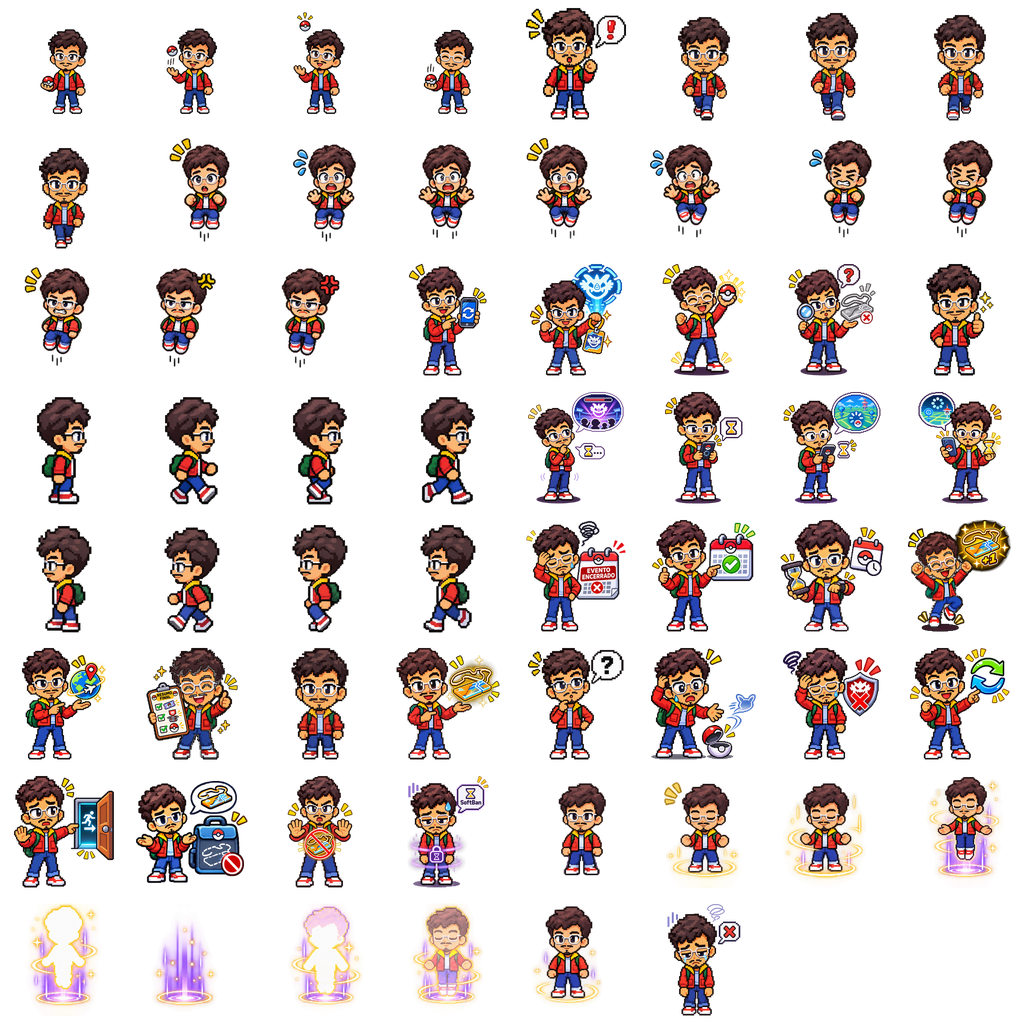
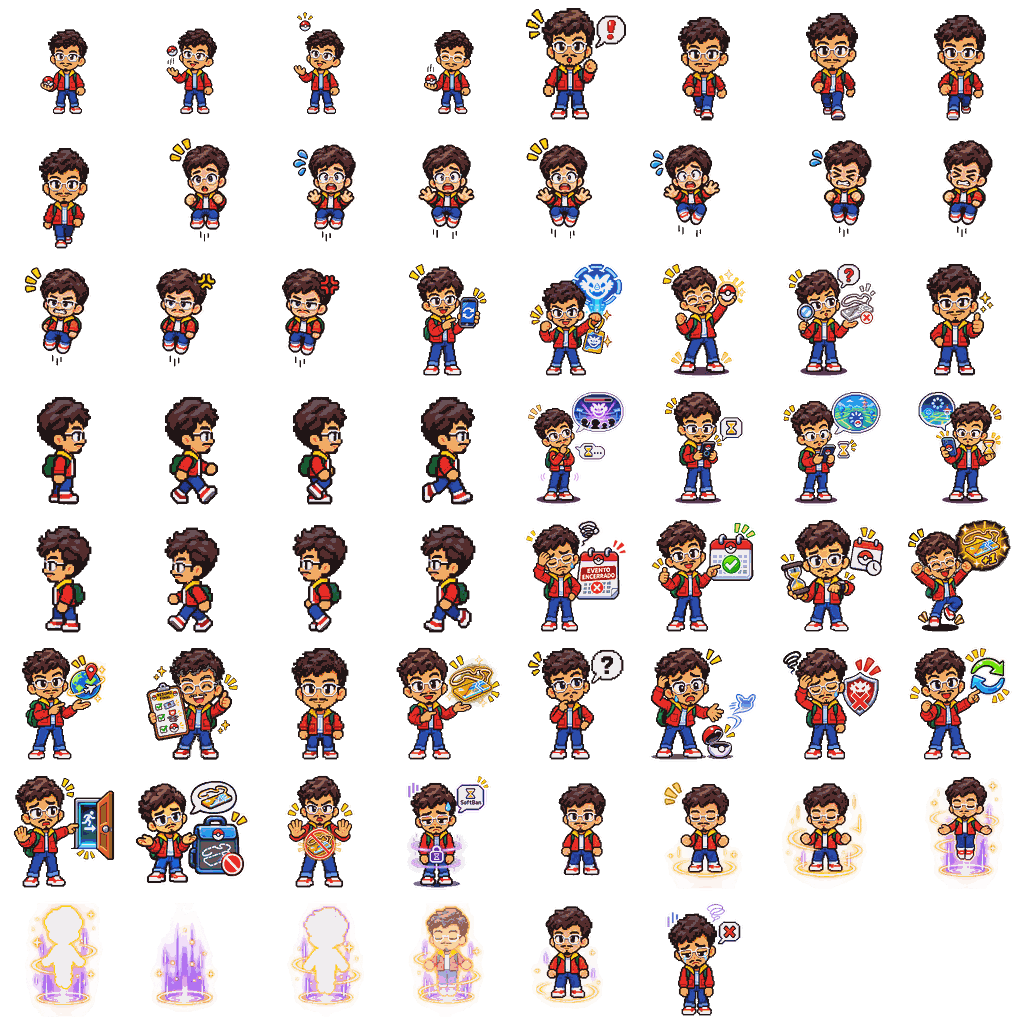
fix(LT315): compactar fallback e preservar atlas 68 íntegro sem exceder limite de APK
Compacta fallback original das 62 sprites, arquiva cópia íntegra LT309 e mantém novo atlas das 68 sem perda. Regressões Node LT169, LT211, Java LT62 e OTA LT173 aprovadas; assinatura e teto <35MB preservados.

diff --git a/app/tests/lt309-edu-sprites-62.test.js b/app/tests/lt309-edu-sprites-62.test.js
@@ -12,7 +12,13 @@ assert.equal(asset.toString("ascii",0,4),"RIFF");
 assert.equal(asset.toString("ascii",8,12),"WEBP");
 assert.ok(asset.length>100000&&asset.length<1000000,"Atlas lossless de 62 quadros compactado");
 assert.equal(crypto.createHash("sha256").update(asset).digest("hex"),
[2 lines of base64/hex data omitted]
+const archived=fs.readFileSync(path.join(__dirname,
+  "../../docs/legacy-assets/lt309/edu_avatar_atlas_62-original.webp"));
+assert.equal(archived.length,822866,"Fonte original íntegra, fora do APK");
+assert.equal(crypto.createHash("sha256").update(archived).digest("hex"),
[1 lines of base64/hex data omitted]
+assert.equal(asset.length,133078,"Fallback com 62 sprites compactado para APK abaixo de 35 MB");
 assert.match(java,/CELL=128, COLS=8, COUNT=62/);
 assert.match(java,/SIZES_PX=\{50,75,100\}/);
 assert.match(java,/options\.inScaled=false/);

diff --git a/app/tests/lt314-edu-68-geometry-shadow.test.js b/app/tests/lt314-edu-68-geometry-shadow.test.js
@@ -54,6 +54,6 @@ assert(service.includes('private static final String[] EDU_IDLE_ROTATION'),"Idle
 assert(!service.match(/EDU_IDLE_ROTATION=\{[^}]*edu_sombria/s),"Sombria não é exibida ociosamente");
 const old=fs.readFileSync(path.join(root,"assets/edu_avatar_atlas_62.webp"));
 assert.equal(crypto.createHash("sha256").update(old).digest("hex"),
[1 lines of base64/hex data omitted]
- "Atlas original das 62 sprites preservado");
[1 lines of base64/hex data omitted]
+ "Fallback LT315 das 62 sprites compacto e verificado");
 console.log("LT314 QA PASS — 68 sprites, Sombria, centro do rosto, pés e pixel-art sem interpolação");

diff --git a/app/tests/lt313-edu-consistent-idle.test.js b/app/tests/lt313-edu-consistent-idle.test.js
@@ -59,7 +59,7 @@ for(const seq of ["pokebola_gesto","caminhada_frente","caminhada_direita",
    "edu_armadura_mewtwo","edu_armadura_mewtwo_shiny"])
  assert.ok(service.includes('"'+seq+'"'),"ciclo ocioso "+seq);
 assert.match(java,/SIZES_PX=\{50,75,100\}/,"não muda P/M/G");
-assert.ok(old.length>700000,"atlas de 62 continua incluído");
+assert.ok(old.length>100000&&old.length<350000,"fallback das 62 sprites mantém nitidez e tamanho compacto");
 assert.ok(extra.length>5000,"atlas de 5 continua incluído");
 assert.match(java,/boolean uniformFrame=uniform!=null/);
 console.log("LT313: asset WebP lossless 22, proporções consistentes, mapeamento e fallback PASS");

diff --git a/docs/LT315_EDU_ATLAS_68_UNIFORME_AUDITORIA_20261108.md b/docs/LT315_EDU_ATLAS_68_UNIFORME_AUDITORIA_20261108.md
@@ -16,3 +16,11 @@ Base: LT314 (0.03.14 / 54520). O usuário informou que quadros ainda mudavam de 
 - app/tests/lt315-edu-68-uniform-atlas.test.js verifica hash, dimensões VP8L, indices, fallback, ausência de reescala e memória.
 - Requer regressões Node, compilação Java Android, OTA, assinatura v2 e integridade do APK antes de publicar.
 - QA física no Samsung pendente; não interpretar sucesso de CI como confirmação de fluidez em aparelho.
+
+## Auditoria de tamanho e preservação do fallback
+- Primeira tentativa de publicar LT315: build e assinatura concluídos, mas o gate oficial Validate APK and signer falhou. O workflow exige APK com menos de 35.000.000 bytes.
+- A nova arte de 68 sprites é preservada em resolução/qualidade integral: 221.178 bytes, WebP lossless.
+- Para recuperar margem de espaço sem retirar o novo atlas, somente o fallback legado das 62 sprites foi recompactado em WebP lossless com 192 cores, dimensões 1024x1024, 133.078 bytes, SHA-256 69c1ea7b0f5dec4292d90cb62dae891c95835017204274cc4121ca3698f6889a.
+- O arquivo original exato da LT309 foi preservado no repositório em docs/legacy-assets/lt309/edu_avatar_atlas_62-original.webp: 822.866 bytes, SHA-256 5c81ba10976328ab479bf1d04d9082203cb8c5f45ee403f23265b05f6947942f.
+- Essa mudança economiza 689.788 bytes no APK sem tocar na arte uniforme de 68 quadros e sem eliminar a alternativa em caso de falha de leitura do novo atlas.
+- Gates Node anteriores atualizados para conferir tanto o fallback compacto quanto a fonte histórica íntegra. Não alterar limite de APK nem controles de assinatura.
